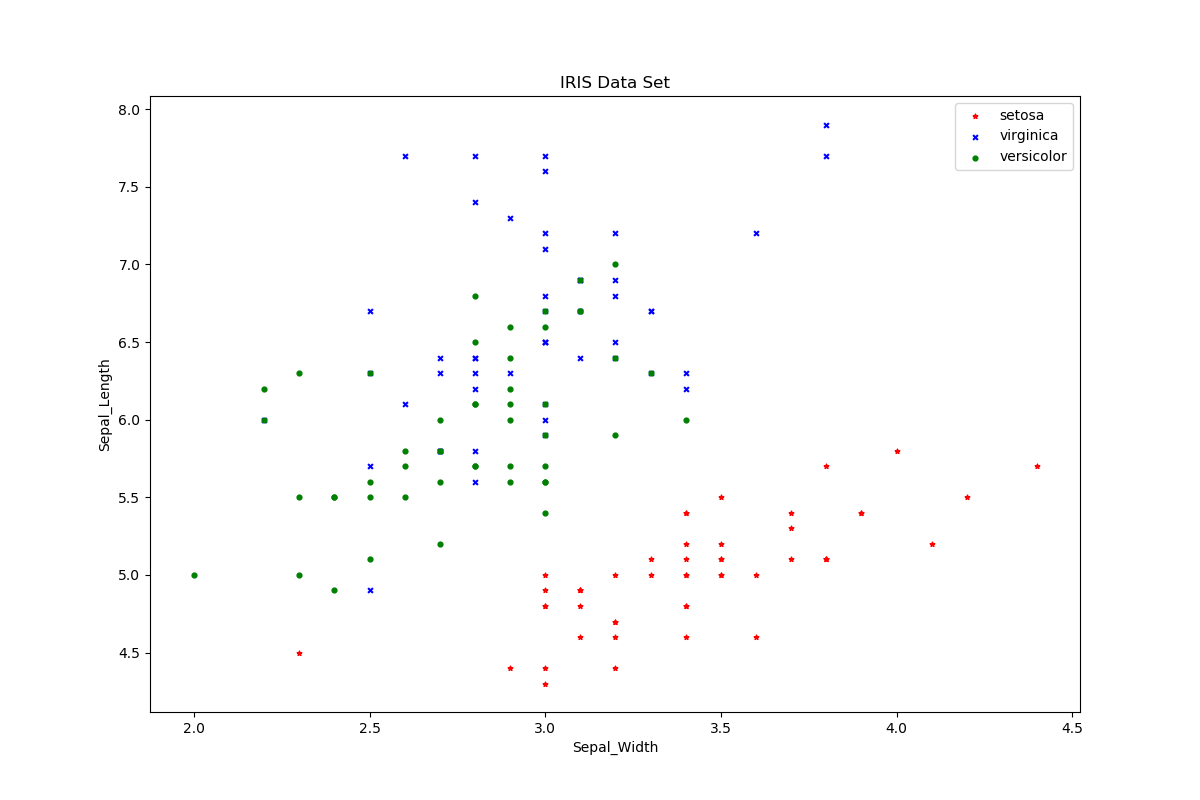
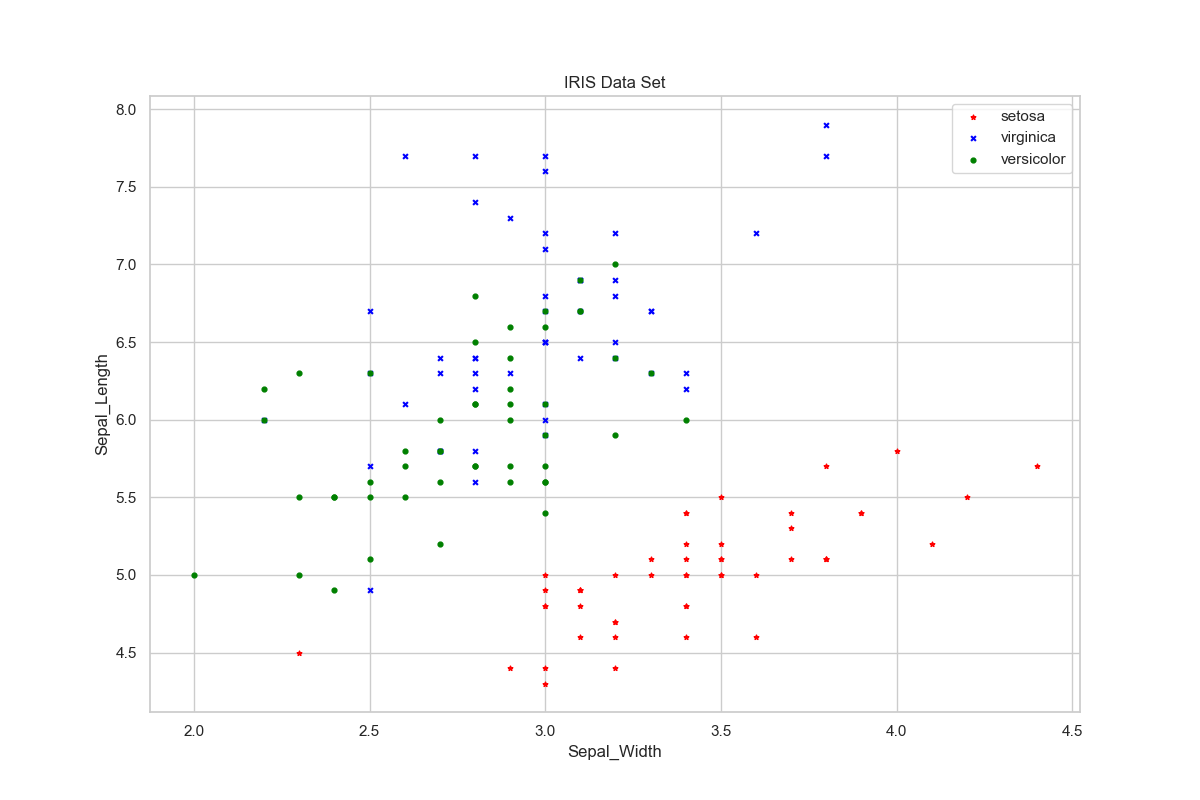
including boxplots and histograms

diff --git a/analysis.py b/analysis.py
@@ -1,8 +1,7 @@
 import pandas as pd
 import matplotlib.pyplot as plt
+import seaborn as sns
 from scipy import stats
-from scipy.stats import norm
-
 
 df = pd.read_csv("Fishers IRIS Data Set.csv")
 
@@ -10,6 +9,14 @@ sepalwidth = df["sepal_width"]
 sepallength = df["sepal_length"]
 petalwidth = df["petal_width"]
 petallength = df["petal_length"]
+species = df["species"] 
+
+print("IRIS Data Set:")
+print(df.loc[:, df.columns != 'Count'])
+print("")
+print("The number of each species is: ")
+print(df["species"].value_counts())
+print("")
 
 shapiro_test_sepal_width = (stats.shapiro(sepalwidth))
 shapiro_test_sepal_length = (stats.shapiro(sepallength))
@@ -35,34 +42,6 @@ if (shapiro_test_petal_length[1]) >= 0.05:
     print("Petal Length is Normally Distributed")
 else:
     print("Petal Length is not Normally Distributed")
-
-
-
-
-
-"""
-sepalwidth = df["sepal_width"]
-sepallength = df["sepal_length"]
-petalwidth = df["petal_width"]
-petallength = df["petal_length"]
-
-print("IRIS Data Set:")
-print(df.loc[:, df.columns != 'Count'])
-
-print("")
-print("The number of each species is: ")
-print(df["species"].value_counts())
-
-plt.figure(figsize=(12,8))
-plt.hist([sepalwidth, petalwidth], bins = 20, rwidth = 1, color = ["g", "r"], label = ["Sepal_Width", "Petal_Width"])
-plt.legend()
-plt.title("Sepal_Width")
-plt.xlabel("Measurment in cm")
-plt.ylabel("Observations")
-plt.savefig("Multi_Hist")
-plt.show(block=False)
-plt.pause(4)
-plt.close("all")
 
 plt.figure(figsize=(12,8))
 plt.hist(sepalwidth, bins = 20, rwidth = 0.9)
@@ -104,13 +83,38 @@ plt.show(block=False)
 plt.pause(4)
 plt.close("all")
 
+plt.figure(figsize=(12,8))
+sns.set(style="whitegrid")
+ax = sns.boxplot(x=species, y = sepalwidth)
+plt.savefig("sepal_width_boxplot")
+plt.show(block=False)
+plt.pause(4)
+plt.close("all")
+plt.figure(figsize=(12,8))
+ax = sns.boxplot(x=species, y = sepallength)
+plt.savefig("sepal_length_boxplot")
+plt.show(block=False)
+plt.pause(4)
+plt.close("all")
+plt.figure(figsize=(12,8))
+ax = sns.boxplot(x=species, y = petalwidth)
+plt.savefig("petal_width_boxplot")
+plt.show(block=False)
+plt.pause(4)
+plt.close("all")
+plt.figure(figsize=(12,8))
+ax = sns.boxplot(x=species, y = petallength)
+plt.savefig("petal_length_boxplot")
+plt.show(block=False)
+plt.pause(4)
+plt.close("all")
+
 setosa_df = df[df["species"] == "setosa"]
 countset = setosa_df["Count"]
 sepalwidthset = setosa_df["sepal_width"]
 sepallengthset = setosa_df["sepal_length"]
 petalwidthset = setosa_df["petal_width"]
 petallengthset = setosa_df["petal_length"]
-
 
 virginica_df = df[df["species"] == "virginica"]
 countvir = virginica_df["Count"]
@@ -194,5 +198,4 @@ plt.legend()
 plt.savefig("Sepal_Width_Length_set_vir_ver")
 plt.show(block=False)
 plt.pause(4)
-plt.close("all")]
-"""
+plt.close("all")
